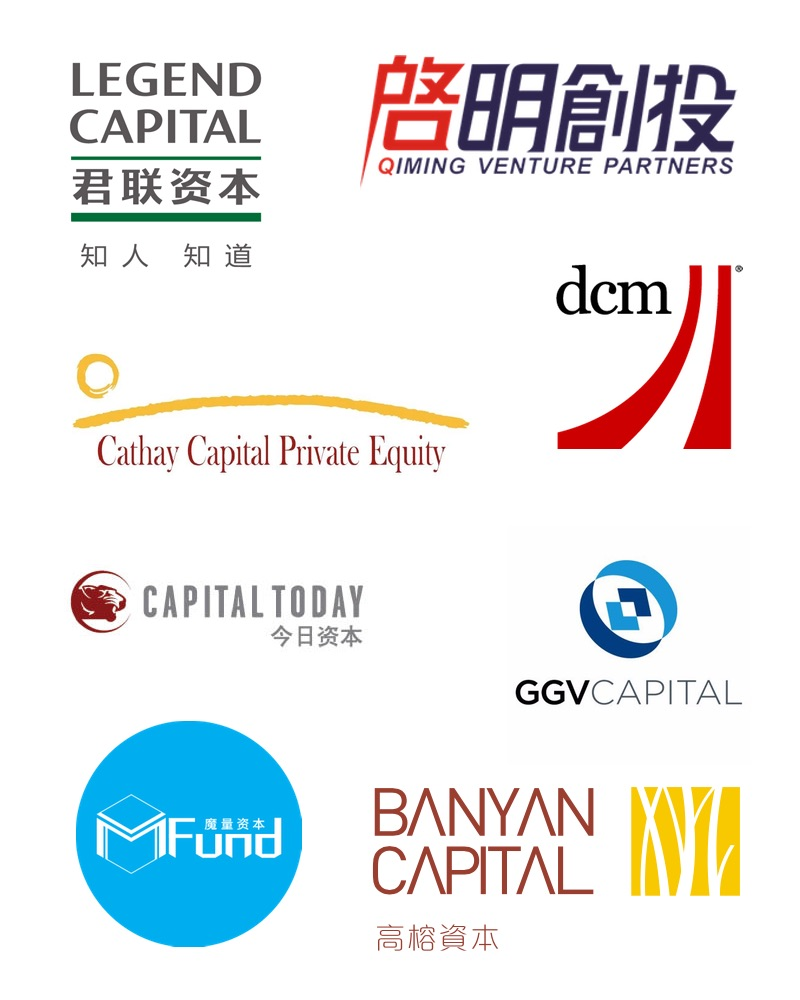
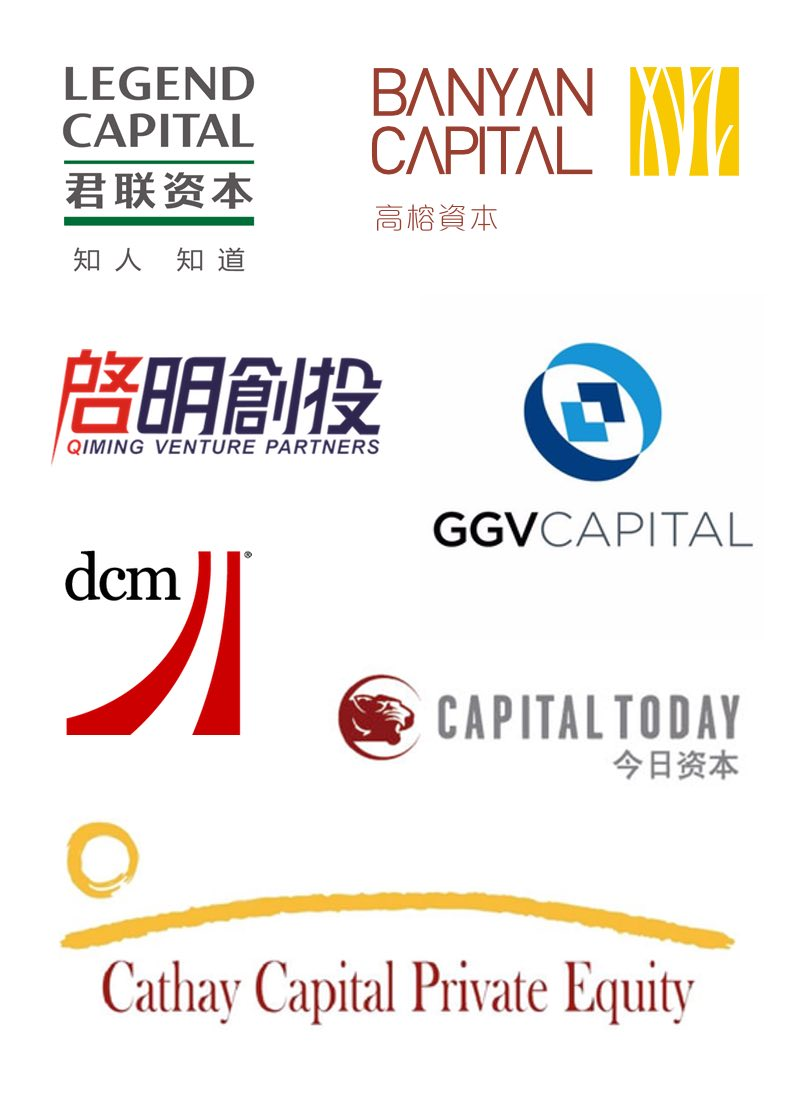
Row-position dd-clients.

diff --git a/assets/index.css b/assets/index.css
@@ -1,1 +1,1 @@
-body,html{height:100%;margin:0;font-family:-apple-system,BlinkMacSystemFont,Segoe UI,Roboto,Helvetica,Arial,sans-serif;font-size:14px;line-height:1.8em;color:#333;background-color:#fff}a{color:#555;text-decoration:none}a:hover{color:#000;border-bottom:1px solid #000}.content-wrapper{width:1100px;margin:0 auto}header{font-size:1.2rem;line-height:6rem;position:fixed;top:0;width:100%;z-index:1;background-color:hsla(0,0%,100%,.7)}.logo{display:inline-block;font-weight:700}.logo svg{position:relative;top:3px;width:19px;height:19px;margin-right:.3rem}.slogan{font-weight:lighter;color:#888;font-size:14px;position:relative;top:-1px;padding:0 5px}.nav{float:right;font-weight:200}.nav a{font-size:1rem;margin-left:2.5rem}#contact-us,#our-clients{background-color:#f5f5f5}#our-service{height:100%;background:url(mbg-light.jpg) no-repeat 50%;background-size:cover}#our-service .content-wrapper{box-sizing:border-box;padding-top:85px;height:100%}#our-service .content-wrapper,.hero{display:-webkit-flex;display:-ms-flexbox;display:flex}.hero{-webkit-flex:1;-ms-flex:1;flex:1;text-align:center;line-height:100%;-webkit-flex-direction:column;-ms-flex-direction:column;flex-direction:column;-webkit-align-items:center;-ms-flex-align:center;align-items:center;-webkit-justify-content:center;-ms-flex-pack:center;justify-content:center}.hero h2{font-size:2rem;letter-spacing:.5rem;margin:1.1em 0}.hero span{font-size:1.6rem;line-height:1.6em;padding:0 1em}.services-list{width:50%;-webkit-align-items:center;-ms-flex-align:center;align-items:center}.services-list,.services-list .content-wrapper{display:-webkit-flex;display:-ms-flexbox;display:flex}.services-list .content-wrapper{background-color:hsla(0,0%,100%,.8);-webkit-justify-content:space-around;-ms-flex-pack:distribute;justify-content:space-around}.service-item{max-width:460px;background-color:hsla(0,0%,100%,.5);padding:.5rem 2.5rem;margin:0 auto}.service-item dd,.service-item dt{margin:2rem 0}.service-item dt{font-size:1.5rem;font-weight:700}.service-item dd{font-size:1rem;line-height:2.2rem}.service-item ul{padding-left:1em}#our-team{display:-webkit-flex;display:-ms-flexbox;display:flex;-webkit-align-items:center;-ms-flex-align:center;align-items:center;-webkit-justify-content:space-between;-ms-flex-pack:justify;justify-content:space-between}.section-title{font-size:2rem;margin:7rem 1.5rem;text-align:center}.team-partners{margin:3rem 0 0 220px}.partner-card{position:relative;padding-left:120px}.partner-icon{position:absolute;top:-3px;left:0;width:80px;height:80px;border-radius:40px}.partner-title{color:#aaa;line-height:1em}.partner-name{font-size:2rem;font-weight:700;margin-top:0}.team-consults{margin:8rem 0;display:-webkit-flex;display:-ms-flexbox;display:flex;-webkit-justify-content:space-around;-ms-flex-pack:distribute;justify-content:space-around}.team-consults-title{display:none}.consult-card{text-align:center}.consult-icon{width:60px;height:60px;display:none}.consult-name{font-size:1.5rem;font-weight:700}.team-pros{margin:8rem 0;font-size:1.5rem;text-align:center}#our-clients{padding:1px 0;text-align:center}.clients{padding-bottom:8rem}.client-card{min-width:160px;display:inline-block;margin:2rem 0;text-align:center}.client-card img{height:50px}.client-card p{margin-top:0;line-height:20px}#fund-clients{padding:1px 0}#fund-clients .section-title{margin-bottom:4rem}#fund-clients ul{margin:0 auto;list-style:none;text-align:center;padding:0;font-size:18px;line-height:2em}.dd-intro li:before{content:'•';padding-right:.6rem}.dd-clients{text-align:center;margin-bottom:6rem}#contact-us{text-align:center;height:calc(100% - 85px);min-height:18rem;display:-webkit-flex;display:-ms-flexbox;display:flex;-webkit-align-items:center;-ms-flex-align:center;align-items:center;font-size:1.2rem}#news{padding-top:85px}.news-title{-webkit-flex:1;-ms-flex:1;flex:1;font-size:2.5rem;font-weight:400;text-align:center;line-height:100%;display:-webkit-flex;display:-ms-flexbox;display:flex;-webkit-align-items:center;-ms-flex-align:center;align-items:center;-webkit-justify-content:center;-ms-flex-pack:center;justify-content:center}.news-list{width:50%;overflow-y:auto;margin:0}.news-list dl{margin-bottom:4em}.news-list dt{font-family:georgia,serif;margin:3em 0 2em}.news-list dd{margin:2em 0 2em 3em;position:relative}.news-list a:before{content:'•';position:absolute;left:-1em}footer{line-height:85px}footer .content-wrapper{color:#777}.footer-right{float:right}@media (min-width:1600px){html{font-size:16px}.content-wrapper{width:1200px}.hero{font-size:3rem}}@media (max-width:900px){body{color:#333}.content-wrapper{width:inherit}header{position:absolute;text-align:center}.nav{display:none}#our-service .content-wrapper{-webkit-flex-direction:column;-ms-flex-direction:column;flex-direction:column}.hero{font-size:1.8rem;height:20%}.section-title{font-size:1.5rem}#our-service{height:100%}.services-list{-webkit-flex:1;-ms-flex:1;flex:1;width:100%;background-color:hsla(0,0%,100%,.5)}.service-item{background-color:transparent}.team-partners{margin:4rem 2rem}.partner-card{padding-left:7.5rem}.team-consults{display:block}.team-consults-title{display:block;border-bottom:1px dashed #ccc;margin:3rem;font-size:1.3rem;font-weight:lighter;line-height:4em;text-align:center}.team-consults .partner-title{display:none}.consult-card{margin:5rem 0}.team-pros{padding:0 2rem}.client-card{min-width:100px}.dd-clients img{max-width:100%;height:auto}footer{padding:0 2rem}.logo{line-height:20px;position:relative;top:10px}.logo .slogan{display:block;position:relative;top:5px}}@media (max-width:350px){body,html{font-size:12px}}
+body,html{height:100%;margin:0;font-family:-apple-system,BlinkMacSystemFont,Segoe UI,Roboto,Helvetica,Arial,sans-serif;font-size:14px;line-height:1.8em;color:#333;background-color:#fff}a{color:#555;text-decoration:none}a:hover{color:#000;border-bottom:1px solid #000}.content-wrapper{width:1100px;margin:0 auto}header{font-size:1.2rem;line-height:6rem;position:fixed;top:0;width:100%;z-index:1;background-color:hsla(0,0%,100%,.7)}.logo{display:inline-block;font-weight:700}.logo svg{position:relative;top:3px;width:19px;height:19px;margin-right:.3rem}.slogan{font-weight:lighter;color:#888;font-size:14px;position:relative;top:-1px;padding:0 5px}.nav{float:right;font-weight:200}.nav a{font-size:1rem;margin-left:2.5rem}#contact-us,#our-clients{background-color:#f5f5f5}#our-service{height:100%;background:url(mbg-light.jpg) no-repeat 50%;background-size:cover}#our-service .content-wrapper{box-sizing:border-box;padding-top:85px;height:100%}#our-service .content-wrapper,.hero{display:-webkit-flex;display:-ms-flexbox;display:flex}.hero{-webkit-flex:1;-ms-flex:1;flex:1;text-align:center;line-height:100%;-webkit-flex-direction:column;-ms-flex-direction:column;flex-direction:column;-webkit-align-items:center;-ms-flex-align:center;align-items:center;-webkit-justify-content:center;-ms-flex-pack:center;justify-content:center}.hero h2{font-size:2rem;letter-spacing:.5rem;margin:1.1em 0}.hero span{font-size:1.6rem;line-height:1.6em;padding:0 1em}.services-list{width:50%;-webkit-align-items:center;-ms-flex-align:center;align-items:center}.services-list,.services-list .content-wrapper{display:-webkit-flex;display:-ms-flexbox;display:flex}.services-list .content-wrapper{background-color:hsla(0,0%,100%,.8);-webkit-justify-content:space-around;-ms-flex-pack:distribute;justify-content:space-around}.service-item{max-width:460px;background-color:hsla(0,0%,100%,.5);padding:.5rem 2.5rem;margin:0 auto}.service-item dd,.service-item dt{margin:2rem 0}.service-item dt{font-size:1.5rem;font-weight:700}.service-item dd{font-size:1rem;line-height:2.2rem}.service-item ul{padding-left:1em}#our-team{display:-webkit-flex;display:-ms-flexbox;display:flex;-webkit-align-items:center;-ms-flex-align:center;align-items:center;-webkit-justify-content:space-between;-ms-flex-pack:justify;justify-content:space-between}.section-title{font-size:2rem;margin:7rem 1.5rem;text-align:center}.team-partners{margin:3rem 0 0 220px}.partner-card{position:relative;padding-left:120px}.partner-icon{position:absolute;top:-3px;left:0;width:80px;height:80px;border-radius:40px}.partner-title{color:#aaa;line-height:1em}.partner-name{font-size:2rem;font-weight:700;margin-top:0}.team-consults{margin:8rem 0;display:-webkit-flex;display:-ms-flexbox;display:flex;-webkit-justify-content:space-around;-ms-flex-pack:distribute;justify-content:space-around}.team-consults-title{display:none}.consult-card{text-align:center}.consult-icon{width:60px;height:60px;display:none}.consult-name{font-size:1.5rem;font-weight:700}.team-pros{margin:8rem 0;font-size:1.5rem;text-align:center}#our-clients{padding:1px 0;text-align:center}.clients{padding-bottom:8rem}.client-card{min-width:160px;display:inline-block;margin:2rem 0;text-align:center}.client-card img{height:50px}.client-card p{margin-top:0;line-height:20px}#fund-clients{padding:1px 0}#fund-clients .content-wrapper{display:-webkit-flex;display:-ms-flexbox;display:flex}.dd-left,.dd-right{-webkit-flex:1;-ms-flex:1;flex:1}.dd-left .section-title{padding:20% 0 0}#fund-clients .section-title{margin-bottom:4rem;line-height:1.5em}.dd-intro{display:-webkit-flex;display:-ms-flexbox;display:flex}.dd-intro ul{display:inline-block;margin:0 auto;list-style:none;text-align:left;padding:0;font-size:1.2rem;line-height:2em}.dd-intro li:before{content:'•';padding-right:.6rem}.dd-clients{text-align:center;margin-bottom:6rem}.dd-clients img{max-width:75%;height:auto}#contact-us{text-align:center;height:calc(100% - 85px);min-height:18rem;display:-webkit-flex;display:-ms-flexbox;display:flex;-webkit-align-items:center;-ms-flex-align:center;align-items:center;font-size:1.2rem}#news{padding-top:85px}.news-title{-webkit-flex:1;-ms-flex:1;flex:1;font-size:2.5rem;font-weight:400;text-align:center;line-height:100%;display:-webkit-flex;display:-ms-flexbox;display:flex;-webkit-align-items:center;-ms-flex-align:center;align-items:center;-webkit-justify-content:center;-ms-flex-pack:center;justify-content:center}.news-list{width:50%;overflow-y:auto;margin:0}.news-list dl{margin-bottom:4em}.news-list dt{font-family:georgia,serif;margin:3em 0 2em}.news-list dd{margin:2em 0 2em 3em;position:relative}.news-list a:before{content:'•';position:absolute;left:-1em}footer{line-height:85px}footer .content-wrapper{color:#777}.footer-right{float:right}@media (min-width:1600px){html{font-size:16px}.content-wrapper{width:1200px}.hero{font-size:3rem}}@media (max-width:900px){body{color:#333}.content-wrapper{width:inherit}header{position:absolute;text-align:center}.nav{display:none}#our-service .content-wrapper{-webkit-flex-direction:column;-ms-flex-direction:column;flex-direction:column}.hero{font-size:1.8rem;height:20%}.section-title{font-size:1.5rem}#our-service{height:100%}.services-list{-webkit-flex:1;-ms-flex:1;flex:1;width:100%;background-color:hsla(0,0%,100%,.5)}.service-item{background-color:transparent}.team-partners{margin:4rem 2rem}.partner-card{padding-left:7.5rem}.team-consults{display:block}.team-consults-title{display:block;border-bottom:1px dashed #ccc;margin:3rem;font-size:1.3rem;font-weight:lighter;line-height:4em;text-align:center}.team-consults .partner-title{display:none}.consult-card{margin:5rem 0}.team-pros{padding:0 2rem}.client-card{min-width:100px}#fund-clients .content-wrapper{-webkit-flex-direction:column;-ms-flex-direction:column;flex-direction:column}.dd-left .section-title{padding:0}footer{padding:0 2rem}.logo{line-height:20px;position:relative;top:10px}.logo .slogan{display:block;position:relative;top:5px}}@media (max-width:350px){body,html{font-size:12px}}

diff --git a/service-worker.js b/service-worker.js
@@ -24,7 +24,7 @@
 /* eslint-disable indent, no-unused-vars, no-multiple-empty-lines, max-nested-callbacks, space-before-function-paren, quotes, comma-spacing */
 'use strict';
 
-var precacheConfig = [["/assets/avatars/icon-cy.jpg","9240f25d85f5ecbbdcafc7c065587f2c"],["/assets/avatars/icon-gsh.jpg","0f1be62f0d1e227120cef24f398a5ea8"],["/assets/avatars/icon-hj.jpg","510bb2d17ecad245b21e032f46a8bbf6"],["/assets/avatars/icon-hx.jpg","f8b1f82dc9cb53774586a331f5d52341"],["/assets/avatars/icon-hx.png","c8f07b0ec953ee3c121a61d012eec30d"],["/assets/avatars/icon-lj.jpg","74a2a1f954d28e664c8f58e6ff73a0fa"],["/assets/avatars/icon-pxl.jpg","5a99c0bbbe0b10a403c7d4d76c1c4f4a"],["/assets/avatars/icon-yym.jpg","74b316cb31242c66c4c51f291eb62cea"],["/assets/clients/esh.png","1530bf918a50183f6574f23799aa1a49"],["/assets/clients/ftxz.png","5013db01f264c322c37914d625914143"],["/assets/clients/goodtalk.png","fac2b5af7de0136efc4289eb0824f607"],["/assets/clients/gtb.png","cdb921433071928809227c1845bcfa25"],["/assets/clients/ibaby.png","111590db93d7658ada09b84a18f83ae2"],["/assets/clients/lbyc.png","b3c5a0e2cd7df37ddcf15b91586a6574"],["/assets/clients/lxe.png","b0b7e0d7bc134567019bf3fce17b8cd6"],["/assets/clients/myzd.png","f08df781fac9413d73c13b69d757fa7a"],["/assets/clients/tbs.png","ef2f83a9130cfcea65f432b7d41505de"],["/assets/clients/xaap.png","89fe086dddeaf61a56ae856146b20124"],["/assets/clients/xmyd.png","6788b979b082c88fb14b37c4c14fbb03"],["/assets/clients/ybdc.png","297fd531d2ed294a4419f73451015809"],["/assets/clients/ydd.png","110df364c8ef25833afd509ee49fe578"],["/assets/clients/yky.png","1e3bcbaf1dc66222231abe78a11e3f85"],["/assets/dd-clients.jpg","8e276cfd8bf889d68298eeca923589fb"],["/assets/funds.jpg","1da048d1d1f45ad81716789cce86c816"],["/assets/index.css","4cd6da2b55fa423e051f0d132036dfa9"],["/assets/index.js","4fb9057935a18474e63d70d6d7415f0c"],["/assets/index.src.css","cb5b2d34f15bf2df389734fa8185f669"],["/assets/mbg-light.jpg","619b17a8a445e1cb8a5a18c1ef74f492"],["/assets/mbg.jpg","3c37539e82e647049fc3fe1e6fe7663a"],["/assets/mountains-light.jpg","a89775980367a6fe2bc012d6ad7941fe"]];
+var precacheConfig = [["/assets/avatars/icon-cy.jpg","9240f25d85f5ecbbdcafc7c065587f2c"],["/assets/avatars/icon-gsh.jpg","0f1be62f0d1e227120cef24f398a5ea8"],["/assets/avatars/icon-hj.jpg","510bb2d17ecad245b21e032f46a8bbf6"],["/assets/avatars/icon-hx.jpg","f8b1f82dc9cb53774586a331f5d52341"],["/assets/avatars/icon-hx.png","c8f07b0ec953ee3c121a61d012eec30d"],["/assets/avatars/icon-lj.jpg","74a2a1f954d28e664c8f58e6ff73a0fa"],["/assets/avatars/icon-pxl.jpg","5a99c0bbbe0b10a403c7d4d76c1c4f4a"],["/assets/avatars/icon-yym.jpg","74b316cb31242c66c4c51f291eb62cea"],["/assets/clients/esh.png","1530bf918a50183f6574f23799aa1a49"],["/assets/clients/ftxz.png","5013db01f264c322c37914d625914143"],["/assets/clients/goodtalk.png","fac2b5af7de0136efc4289eb0824f607"],["/assets/clients/gtb.png","cdb921433071928809227c1845bcfa25"],["/assets/clients/ibaby.png","111590db93d7658ada09b84a18f83ae2"],["/assets/clients/lbyc.png","b3c5a0e2cd7df37ddcf15b91586a6574"],["/assets/clients/lxe.png","b0b7e0d7bc134567019bf3fce17b8cd6"],["/assets/clients/myzd.png","f08df781fac9413d73c13b69d757fa7a"],["/assets/clients/tbs.png","ef2f83a9130cfcea65f432b7d41505de"],["/assets/clients/xaap.png","89fe086dddeaf61a56ae856146b20124"],["/assets/clients/xmyd.png","6788b979b082c88fb14b37c4c14fbb03"],["/assets/clients/ybdc.png","297fd531d2ed294a4419f73451015809"],["/assets/clients/ydd.png","110df364c8ef25833afd509ee49fe578"],["/assets/clients/yky.png","1e3bcbaf1dc66222231abe78a11e3f85"],["/assets/dd-clients.jpg","0ee3d7d70590fe0d8d3f75eabe483e90"],["/assets/funds.jpg","1da048d1d1f45ad81716789cce86c816"],["/assets/index.css","0fa83731c5b0445e06ce8434226ba154"],["/assets/index.js","4fb9057935a18474e63d70d6d7415f0c"],["/assets/index.src.css","6c0cd2dbc7d61d9f29268a74d7cfcdf5"],["/assets/mbg-light.jpg","619b17a8a445e1cb8a5a18c1ef74f492"],["/assets/mbg.jpg","3c37539e82e647049fc3fe1e6fe7663a"],["/assets/mountains-light.jpg","a89775980367a6fe2bc012d6ad7941fe"]];
 var cacheName = 'sw-precache-v2--' + (self.registration ? self.registration.scope : '');
 
 

diff --git a/index.html b/index.html
@@ -150,17 +150,21 @@
 
     <section id="fund-clients">
       <div class="content-wrapper">
-        <div class="section-title">为投资机构提供最可信的技术尽职调查服务</div>
-        <div class="dd-intro">
-          <ul>
-            <li>提供关键运营数据真实度评估</li>
-            <li>提供系统风险性评估</li>
-            <li>提供系统先进性评估</li>
-          </ul>
+        <div class="dd-left">
+          <div class="section-title">为投资机构提供<br/>最可信的技术尽职调查服务</div>
+          <div class="dd-intro">
+            <ul>
+              <li>提供关键运营数据真实度评估</li>
+              <li>提供系统风险性评估</li>
+              <li>提供系统先进性评估</li>
+            </ul>
+          </div>
         </div>
-        <div class="section-title">他们已经在使用 HiCTO 的服务</div>
-        <div class="dd-clients" style="text-align: center">
-          <img src="assets/funds.jpg" height="360px" />
+        <div class="dd-right">
+          <div class="section-title">他们已经在使用 HiCTO 的服务</div>
+          <div class="dd-clients" style="text-align: center">
+            <img src="assets/dd-clients.jpg" />
+          </div>
         </div>
       </div>
     </section>

diff --git a/assets/index.src.css b/assets/index.src.css
@@ -244,18 +244,37 @@ header {
   padding: 1px 0;
 }
 
-#fund-clients .section-title {
-  margin-bottom: 4rem;
+#fund-clients .content-wrapper {
+  display: flex;
 }
 
-#fund-clients ul {
+.dd-left, .dd-right {
+  flex: 1;
+}
+
+.dd-left .section-title {
+  padding: 20% 0 0 0;
+}
+
+#fund-clients .section-title {
+  margin-bottom: 4rem;
+  line-height: 1.5em;
+}
+
+.dd-intro {
+  display: flex;
+}
+
+.dd-intro ul {
+  display: inline-block;
   margin: 0 auto;
   list-style: none;
-  text-align: center;
+  text-align: left;
   padding: 0;
-  font-size: 18px;
+  font-size: 1.2rem;
   line-height: 2em;
 }
+
 
 .dd-intro li::before {
   content: '•';
@@ -265,6 +284,11 @@ header {
 .dd-clients {
   text-align: center;
   margin-bottom: 6rem;
+}
+
+.dd-clients img {
+  max-width: 75%;
+  height: auto;
 }
 
 /* SECTION: CONTACT */
@@ -399,9 +423,12 @@ footer .content-wrapper {
     min-width: 100px;
   }
 
-  .dd-clients img {
-    max-width: 100%;
-    height: auto;
+  #fund-clients .content-wrapper {
+    flex-direction: column;
+  }
+
+  .dd-left .section-title {
+    padding: 0;
   }
 
   footer {
